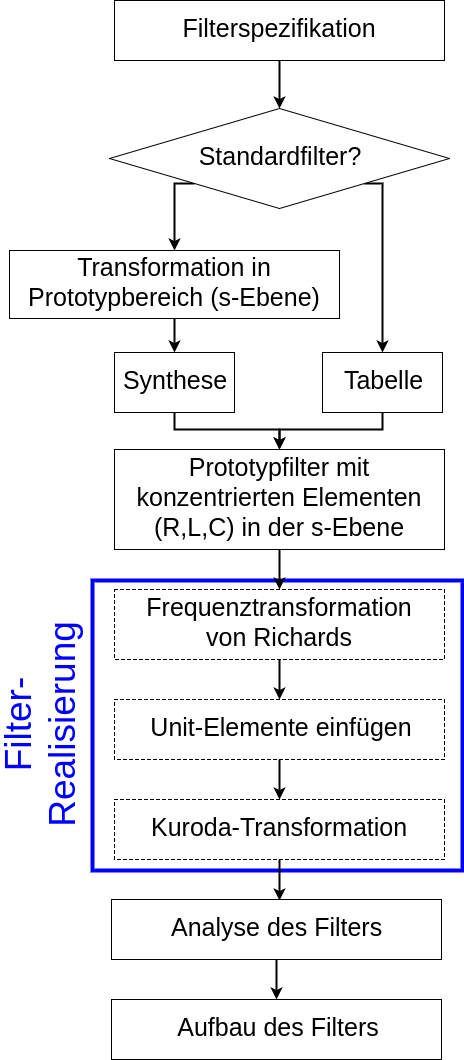
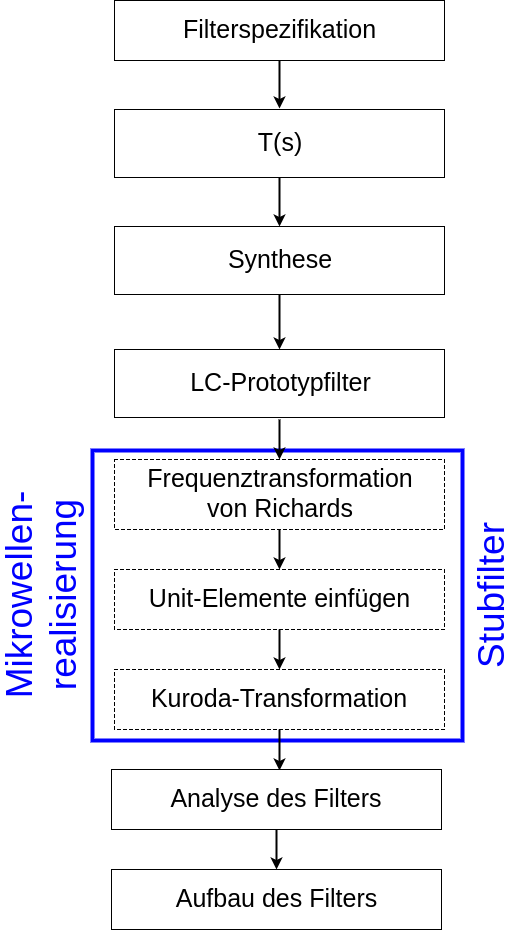
huere hafehuere i chume zu nüt

diff --git a/sections/theorie.tex b/sections/theorie.tex
@@ -1,17 +1,42 @@
 \section{Theorie}
 
-
 \subsection{Stubfilter}
 
-LC-Filter können in einem weiten Frequenzbereich eingesetzt werden. Jedoch wird bei konzentrierten Elementen zu höheren Frequenzen hin der Einfluss der parasitären Eigenschaften immer deutlicher, so dass hohe Anaforderungen an die Bauteilgüte gestellt werden müssen. Im GHZ-Bereich wird es daher zunehmend attraktiv, statt konzentrierten Kapazitäte und Induktivitäten verteilte Strukturen in Form von Leitungen zu verwenden.
+LC-Filter können in einem weiten Frequenzbereich eingesetzt werden. Jedoch wird bei konzentrierten Elementen zu höheren Frequenzen hin der Einfluss der parasitären Eigenschaften immer deutlicher, so dass hohe Anaforderungen an die Bauteilgüte gestellt werden müssen. Im GHZ-Bereich wird es daher zunehmend attraktiv, statt konzentrierten Kapazitäten und Induktivitäten verteilte Strukturen in Form von Leitungen zu verwenden.Es handelt sich dabei um sogenannte Leitungsfilter.
 %Quelle direktes Zitat: 
 %https://books.google.ch/books?id=MTVQAgAAQBAJ&pg=PA203&lpg=PA203&dq=leitungsfilter+hochfrequenztechnik&source=bl&ots=Ljf0GRJkZt&sig=n-0G9H5VZ9iuPc2qepAATnjA47M&hl=de&sa=X&ved=0ahUKEwj38u-T79DUAhUSL1AKHUsyDNMQ6AEINTAB#v=onepage&q=leitungsfilter%20hochfrequenztechnik&f=false%
 
-Es gibt verschiedene Arten um Leitungsfilter zu realisieren. Eine Möglichkeit der Realisierung ist das Stubfilter. Dieses Filter verwendet gleichlange kurzgeschlossenen Leitungen (TLSC) und leerlaufende Leitungen(TLOC), die nur an einem Ende verbunden werden. Das andere Ende wird kurzgeschlossen oder offen gelassen. Man spricht in diesem Fall von sogennanten Stubs(Stichleitungen), die sich bei hohen Frequenzen wie reaktive Elemente (L,C) verhalten und somit die  Realisierung eines Mikrowellenfilter ermöglichen. Der grosse Vorteil ist das eine geschlossene Theorie existiert, welche die Synthese von Stubfiltern ermöglicht.
+Es gibt verschiedene Arten um Leitungsfilter zu realisieren. Eine Möglichkeit der Realisierung ist das Stubfilter. Dieses Filter verwendet gleichlange kurzgeschlossenen Leitungen (TLSC) und leerlaufende Leitungen(TLOC), die nur an einem Ende verbunden werden. Das andere Ende wird entweder kurzgeschlossen oder eben offen gelassen. Bei diesen Leitungen handelt es sich um sogennante Stubs(Stichleitungen), die sich bei hohen Frequenzen wie reaktive Elemente (L,C) verhalten und somit die Realisierung eines Mikrowellenfilter ermöglichen.
+Damit ein Ingenieur in der Lage ist ein Stubfilter korrekt zu dimensionieren, muss er zuerst das allgemeine Vorgehen bei einer Filterdimensionierung verstehen. Dieses Vorgehen ist unabhängig vom zu realisierenden Filter und wird im folgenden Kapitel näher beschrieben.
+ 
+%Der grosse Vorteil von Stubfiltern ist, das eine geschlossene Theorie zur Filtersynthese existiert. Um diese Theorie verstehen zu können wird vorerst die 
+
+\newpage
+
+
+\subsection{Ablauf Filterdimensionierung}
+
+Der Entwurfsprozess jedes Filters (Abb.\ref{fig:Ablauf_Filterdimensionierung}) beginnt mit der  Filterspezifikation, welche mathematisch mit einer Funktion im Prototypbereich T(s) beschrieben wird. Aus dieser Funktion kann mit Hilfe einer Filtersynthese eine realisierbare Filterstruktur gefunden werden. Dabei ist zu beachten, dass  physikalische Randbedingungen einbezogen werden müssen, die nicht beliebig steile und beliebig verlustfreie Filtercharakteristiken erlauben.
+
+Die Filtersynthesen unterschiedlicher Filter-Realisierungen haben gemeinsam, dass sie alle auf der klassischen LC-Filtersynthese basieren. Nach der LC-Filtersynthese liegt ein LC-Prototypfilter vor, welches mithilfe von unterschiedlichen Transformationen in einen andere Filter-Typ überführt werden kann. Bekannte Transformationen sind z.B die billineare, impulsinvariante oder die Kuroda-Transformation.
+
+\begin{figure}[h!]
+\centering
+ 	\includegraphics[width=0.5\textwidth]{Ablauf_Filterdimensionierung_Allgemein.png}
+ 	\caption{Ablauf Filterdimensionierung}
+ 	\label{fig:Ablauf_Filterdimensionierung}
+\end{figure}
+
+
+
+%Liegen keine speziellen Anforderungen an das Filter vor, so können Standardfilter(Butterworth, Chebyshev, Bessel und Cauer)verwendet werden. Die Reaktanzwerte, welche für die Beschreibung der Übertragungsfunktion des LC-Prototypfilters notwendig sind, sind aus Tabellen zu entnehmen. Werden Spezielle Anforderungen an das Filter gestellt, so eignen sich die Standardfilter nicht und es muss eine LC-Filtersynthese durchgeführt werden.
 
 
 \subsection{Ablauf Stubfilterdimensionierung}
-In diesem Kapitel wird erläutert, wie bei der Dimensionierung eines Stubfilters  vorgegangen wird. Der typische Ablauf zur Dimensionierung eines Stubfiltern ist in Abb. \ref{fig:Ablauf_Filterdimensionierung dargestellt. Dieser Ablauf unterscheidet sich nicht gross vom Ablauf bei der Dimensionierung eines digitalen oder  Ablaufwird auch für die Realisierung von aktiven, passiven und digitalen Filters verwendet. Der einzige Unterschied ist, dass sich die Schritte in Filter-Realisierung(blau umrandet) unterscheiden.
+
+
+
+%In diesem Kapitel wird erläutert, wie bei der Dimensionierung eines Stubfilters  vorgegangen wird. Der typische Ablauf zur Dimensionierung eines Stubfiltern ist in Abb. \ref{fig:Ablauf_Filterdimensionierung dargestellt. Dieser Ablauf unterscheidet sich nicht gross vom Ablauf bei der Dimensionierung eines digitalen oder  Ablaufwird auch für die Realisierung von aktiven, passiven und digitalen Filters verwendet. Der einzige Unterschied ist, dass sich die Schritte in Filter-Realisierung(blau umrandet) unterscheiden.
 
 Ausgangslage für jede Filterdimensionierung ist die Filterspezifikation, welche im Frequenz- oder Zeitbereich vorliegt. Diese Filterspezifikation wird anschliessen mathematisch mit einer Funktion in der s-Ebene (Prototypbereich) beschrieben. Mit einem Synthesetool kann aus der Funktion in der s-Ebene ein Prototypfilter mit konzentrierten Elementen(R,L,C) gefunden werden. Dabei gibt das Synthesetool die Topologie, sowie die Bauteilwerte aus. Liegt kein Synthesetool vor, so müssen Standardfilter (Butterworth, Chebyshev, Bessel und Cauer) verwendet werden, deren Topologie und Bauteilwerte normiert aus einer Tabelle zu entnehmen sind. Bei sehr speziellen Anforderungen an das Filter reichen die Standardfilter aber meist nicht aus um die Filterspezifikationen einzuhalten.
 
@@ -33,3 +58,38 @@ TLOC = ideale, verlustlse Tranmissin Line im Leerlauf
  	\caption{Ablauf der Stubfilter-Dimensionierung}
  	\label{fig:Ablauf_Filterdimensionierung}
 \end{figure}
+
+
+
+
+
+
+
+
+
+
+
+
+
+
+
+%Die "Übersetzung" von klassischen LC-Filtern in Leitungsfilter kann meist problemlos und rein routinemässig vorgenommen werden. Leider resultieren dabei häufig Filterstrukturen, die beispielsweise mit Mikrostreifenleitungen nicht ausführbar sind, da diese einen nur sehr eingeschränkten Bereich der Wellenimpedanz zulassen. So lässt z. B. ein AJumina-Substrat (Er = 10) nur einen Bereich der Wellenimpedanz von Zw = 20 ... 100 n mit vernünftigen Leiterbreiten zu. Die Kunst des Filterentwurfs liegt also darin, den richtigen, mit der gewählten Technik realisierbaren Filtertyp zu finden.
+
+
+Diese Einführung zum Entwurf von Leitungsfiltem der Höchstfrequenztechnik umfasst folgen-
+de Teile:
+1. Einführung zu Butterworth- und Tschebyscheff-Filtern. Filterentwurf mit Standardtief-
+pässen.
+2. Die Richards-Transformation, welche erlaubt, ein LC-Filter in einen Typ von Leitungsfil-
+ter überzuführen (Filter mit kommensurablen Leitungen).
+3. Die Kuroda-Transformation, welche einen Teil der Richards-transformierten Filter in rea-lisierbare Mikrostreifenfilter umzuwandeln vermag.
+4. Schmalbandige Bandpässe mit Leitungselementen als Impedanzinverter.
+
+
+%Bärchtold
+
+
+
+
+
+
